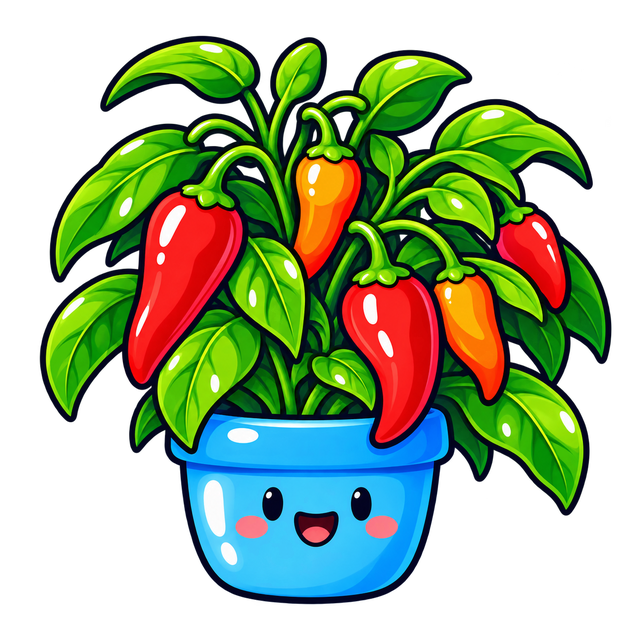
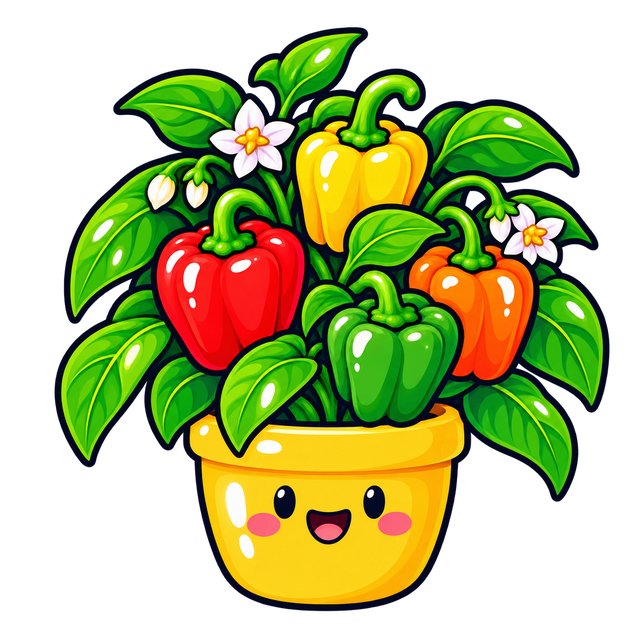
Bell pepper buddy: real bells in a yellow pot
Claude-Session: https://claude.ai/code/session_015RxAJdHfQtruXpuwTDDmmx

diff --git a/src/data/catalog/edibles.ts b/src/data/catalog/edibles.ts
@@ -23,7 +23,7 @@ export const EDIBLE_PLANTS: Species[] = [
   { id: 'tomato', commonName: 'Cherry tomato', latinName: 'Solanum lycopersicum', group: 'edible', defaultSoil: 'veg_mix', defaultLight: 'direct', petToxic: true, edible: true, artPot: 'yellow', art: 'tomato', category: 'vegetable', popular: true, match: { species: ['lycopersicon esculentum'] } },
   // The id stays 'pepper' so plants added as "Chili pepper" keep their guide.
   { id: 'pepper', commonName: 'Hot pepper', latinName: 'Capsicum chinense', group: 'edible', defaultSoil: 'veg_mix', defaultLight: 'direct', petToxic: false, edible: true, artPot: 'blue', art: 'pepper', category: 'vegetable', popular: true, aliases: ['chili pepper', 'chilli', 'scotch bonnet', 'shito pepper', 'habanero', 'kpakpo shito', 'jalapeño', 'cayenne', 'bird’s eye chili', 'ghost pepper'], match: { genus: ['capsicum'] }, tip: 'Small pots, big flavour. Pods go hotter as they colour up, and a healthy plant can overwinter indoors.' },
-  { id: 'bell-pepper', commonName: 'Bell pepper', latinName: 'Capsicum annuum', group: 'edible', defaultSoil: 'veg_mix', defaultLight: 'direct', petToxic: false, edible: true, artPot: 'blue', art: 'bell-pepper', category: 'vegetable', popular: true, aliases: ['sweet pepper', 'capsicum', 'green pepper', 'red pepper', 'yellow pepper', 'paprika'], tip: 'Bigger fruit and a longer season than hot peppers. Give it a 5-gal pot and a stake; green is ripe, colour comes 2–3 weeks later.' },
+  { id: 'bell-pepper', commonName: 'Bell pepper', latinName: 'Capsicum annuum', group: 'edible', defaultSoil: 'veg_mix', defaultLight: 'direct', petToxic: false, edible: true, artPot: 'yellow', art: 'bell-pepper', category: 'vegetable', popular: true, aliases: ['sweet pepper', 'capsicum', 'green pepper', 'red pepper', 'yellow pepper', 'paprika'], tip: 'Bigger fruit and a longer season than hot peppers. Give it a 5-gal pot and a stake; green is ripe, colour comes 2–3 weeks later.' },
   { id: 'spring-onion', commonName: 'Spring onion', latinName: 'Allium fistulosum', group: 'edible', defaultSoil: 'veg_mix', defaultLight: 'bright', petToxic: true, edible: true, artPot: 'grape', art: 'spring-onion', category: 'vegetable', popular: true, aliases: ['scallion', 'green onion', 'bunching onion'], match: { species: ['allium cepa'] } },
 
   // Leafy greens.
